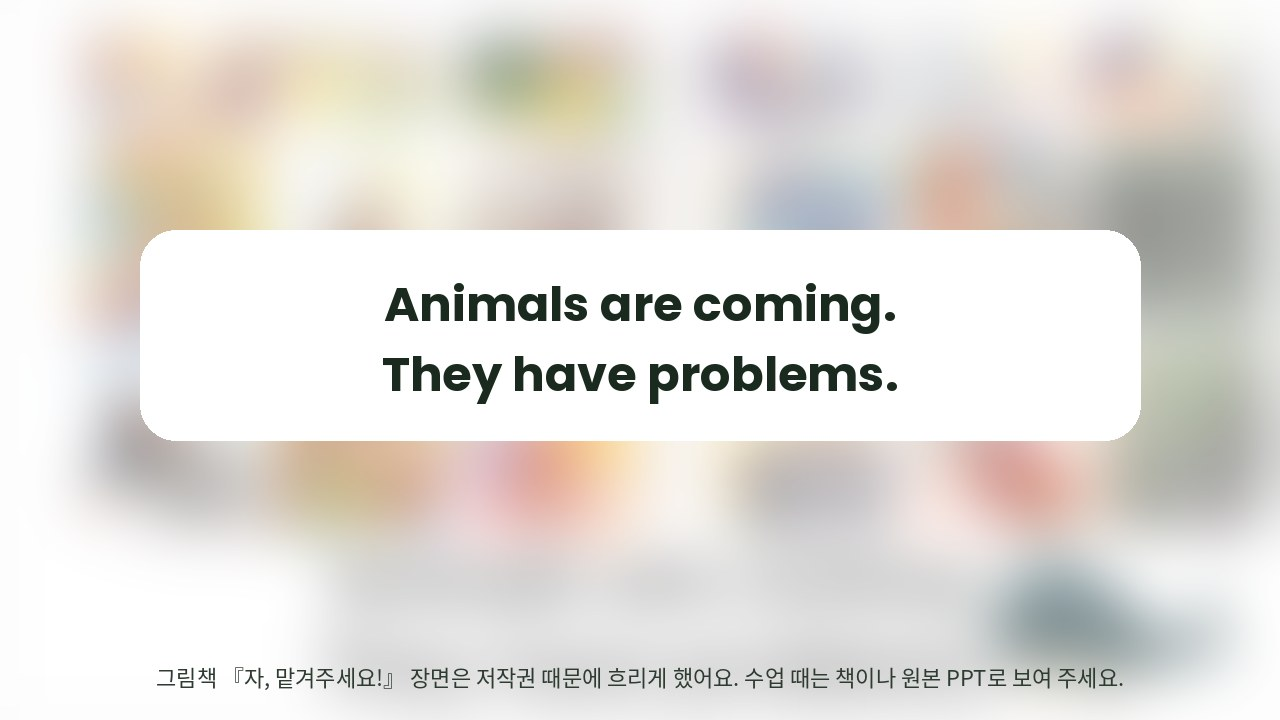
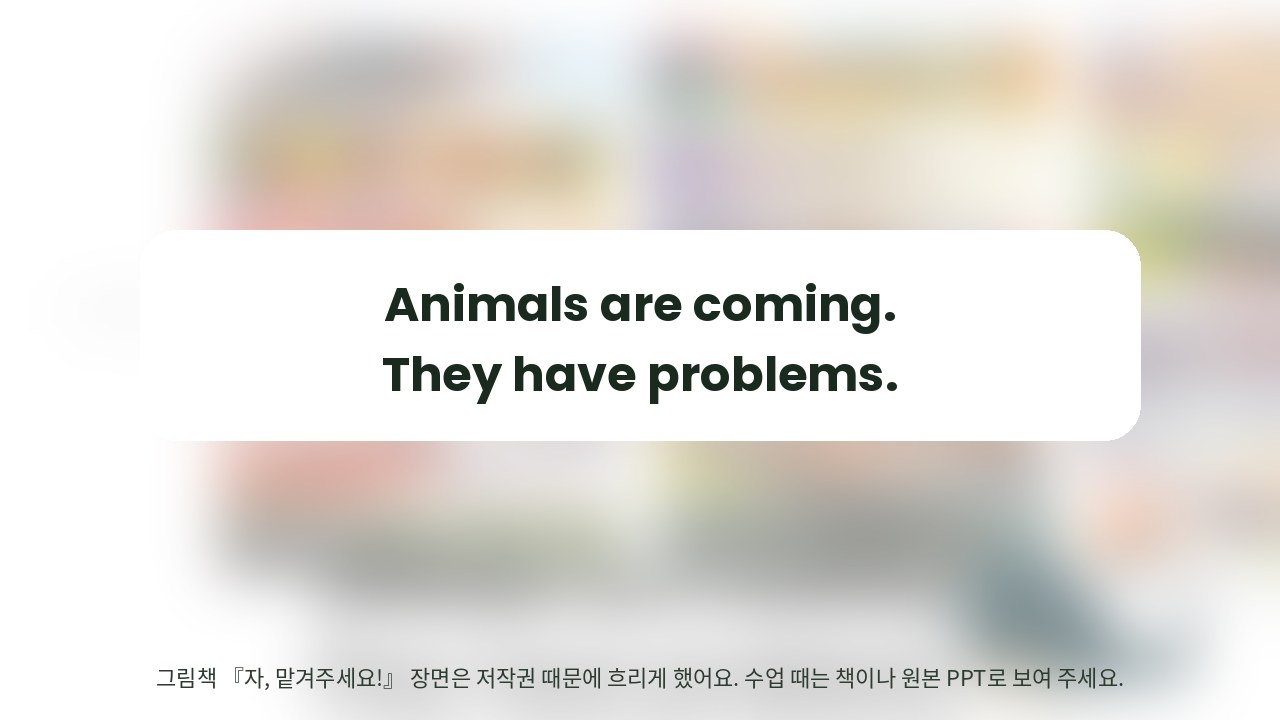
국제 교류 · 태국 1차시 Who is in trouble?: 원본 PPT로 선명한 화면 교체(그림책 장면·표지는 흐림 유지), 발표 메모와 빈칸 문장 추가
Claude-Session: https://claude.ai/code/session_01VUZsWbADDiXmQucRx9BDpo

diff --git a/index.html b/index.html
@@ -8,7 +8,7 @@
   <link rel="preconnect" href="https://fonts.googleapis.com">
   <link rel="preconnect" href="https://fonts.gstatic.com" crossorigin>
   <link rel="stylesheet" href="https://fonts.googleapis.com/css2?family=Gaegu:wght@400;700&family=Gothic+A1:wght@400;500;700&display=swap">
-  <link rel="stylesheet" href="assets/css/style.css?v=20261102l">
+  <link rel="stylesheet" href="assets/css/style.css?v=20261103a">
 </head>
 <body>
   <header class="site-header">
@@ -29,6 +29,6 @@
   </footer>
 
   <script src="https://cdn.jsdelivr.net/npm/qrcode-generator@1.4.4/qrcode.js"></script>
-  <script type="module" src="assets/js/app.js?v=20261102l"></script>
+  <script type="module" src="assets/js/app.js?v=20261103a"></script>
 </body>
 </html>
